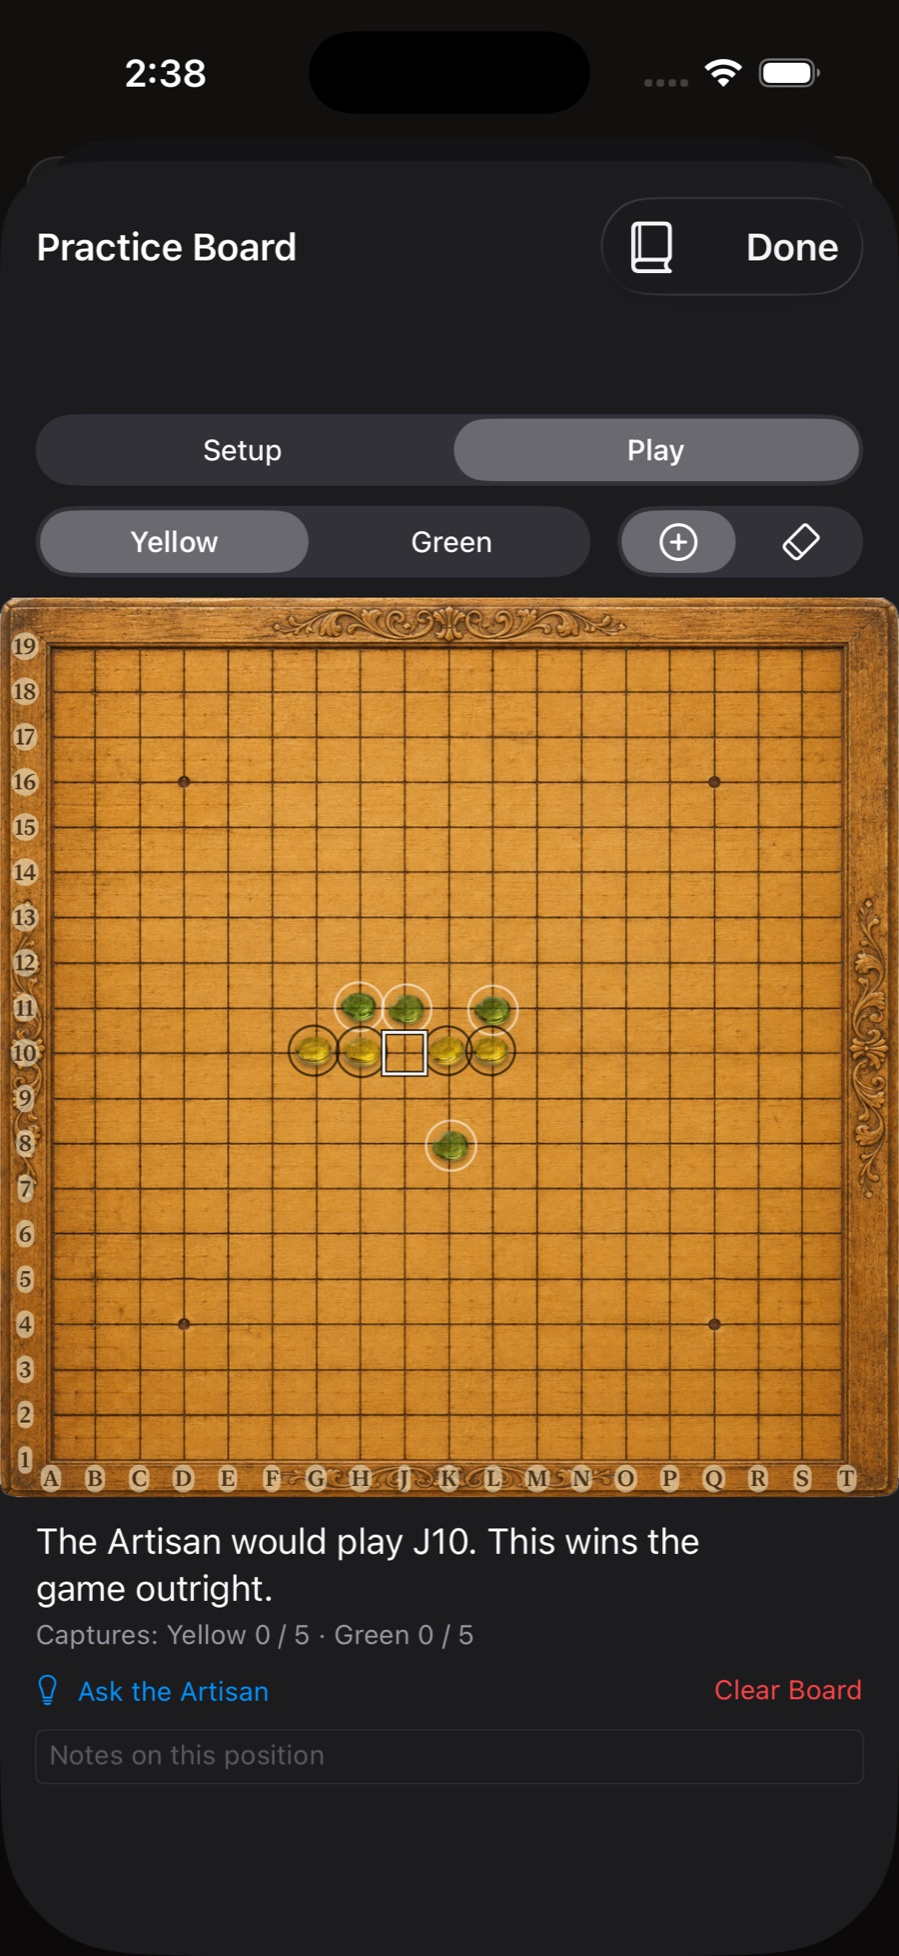
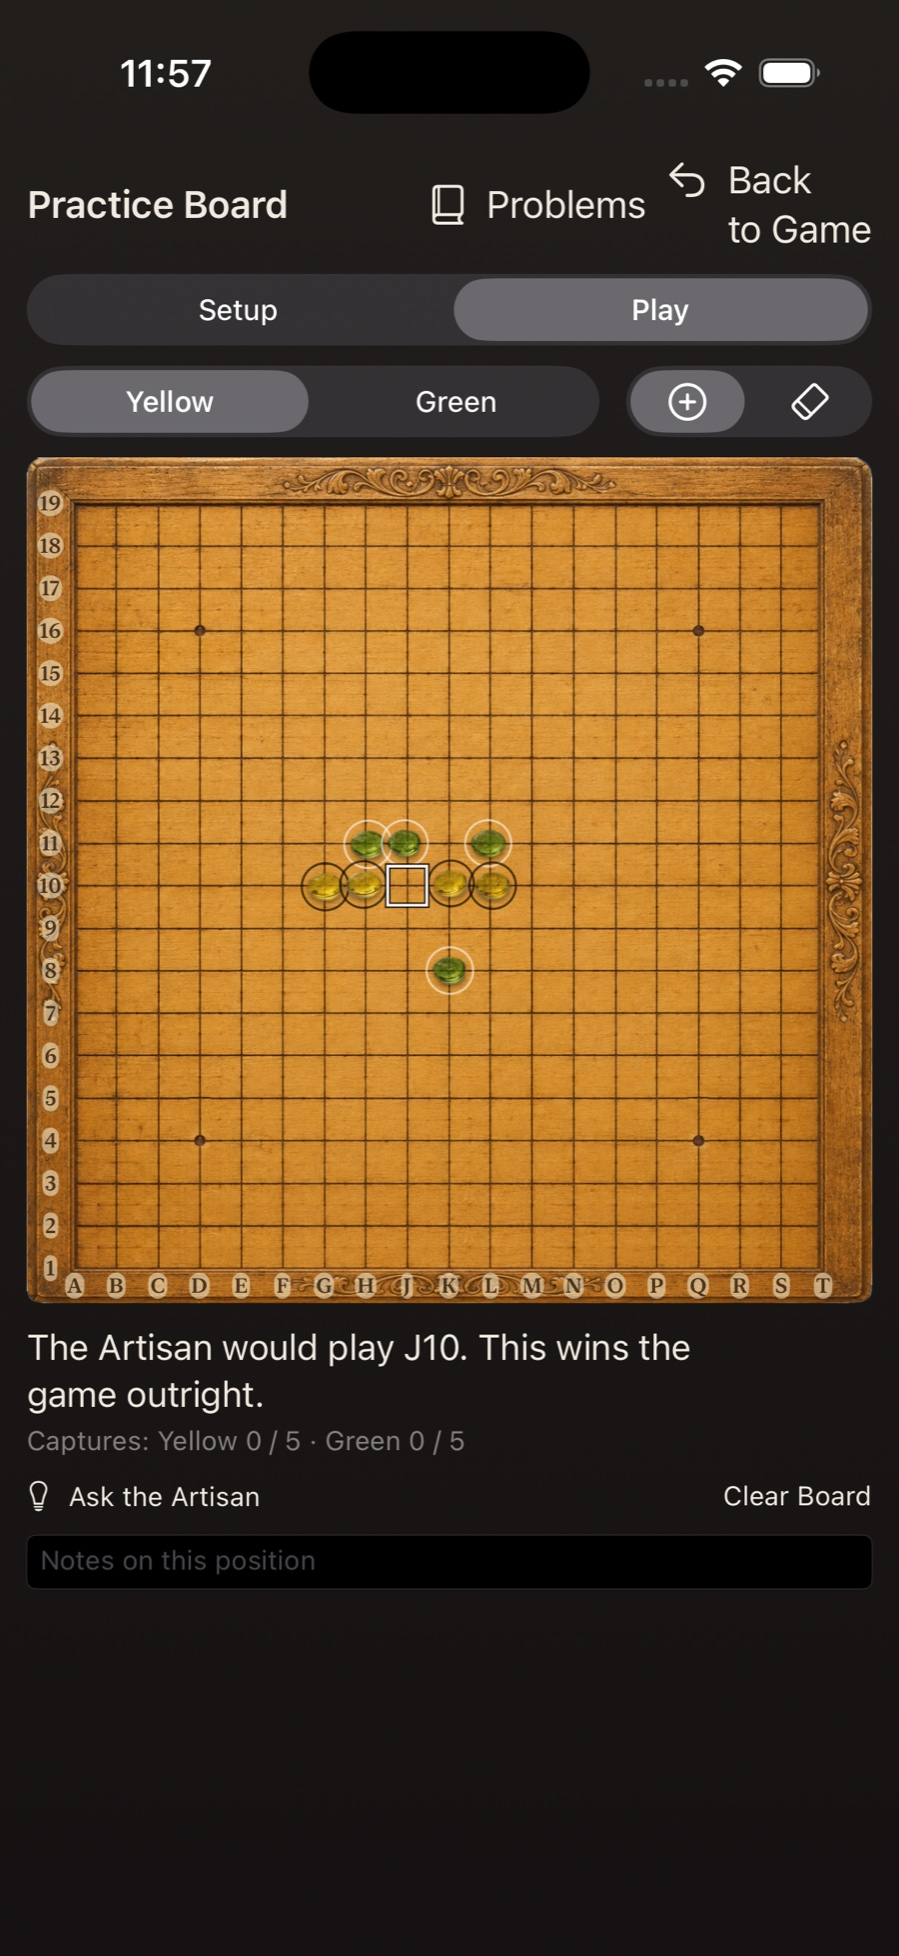
Manual practice images reshoot: the full-size practice mode
The practice board is a mode of the main screen now (app commit
66ad85b), so the manual's practice and problems figures showed a
UI that no longer exists. Both reshot on the new full-size board:
same p01 composition, square on J10, "wins the game outright"
caption; problems menu with the solved checkmark. Practice
section copy now names the takeover (Practice Board makes the
main board the practice board; Back to Game returns) and the
Problems menu by its label. Cache-busters bumped, including
index.html's study-loop use of the practice image.

diff --git a/manual.html b/manual.html
@@ -170,20 +170,20 @@
   <h2 id="practice">The Practice Board</h2>
   <div class="pair">
     <figure>
-      <img src="screenshots/manual-practice.jpg?v=4" alt="The Practice Board in Play mode with a book problem loaded, the book's open-square mark on the winning point, and the caption: The Artisan would play J10. This wins the game outright." loading="lazy">
+      <img src="screenshots/manual-practice.jpg?v=5" alt="The Practice Board in Play mode with a book problem loaded, the book's open-square mark on the winning point, and the caption: The Artisan would play J10. This wins the game outright." loading="lazy">
       <figcaption>A book problem on a real board, with the Artisan's explained answer.</figcaption>
     </figure>
     <figure>
-      <img src="screenshots/manual-problems.jpg?v=2" alt="The problems menu listing the book's Chapter 15 problems, the solved one marked with a checkmark" loading="lazy">
+      <img src="screenshots/manual-problems.jpg?v=3" alt="The problems menu listing the book's Chapter 15 problems, the solved one marked with a checkmark" loading="lazy">
       <figcaption>The book's fifteen problems. Solved ones wear a mark.</figcaption>
     </figure>
   </div>
-  <p>A free board with two bowls beside it, in the Study section. It has two modes, and the difference is the whole idea:</p>
+  <p>A free board with two bowls beside it. Tap <strong>Practice Board</strong> in the Study section and the main board itself becomes the practice board — full size, with the practice controls around it — and <strong>Back to Game</strong> returns you to your game exactly as you left it. It has two modes, and the difference is the whole idea:</p>
   <ul>
     <li><strong>Setup</strong> — stones drop wherever you tap, for whichever color is selected, and nothing resolves. Arrange any position: something from a game, something from the book, something from your head.</li>
     <li><strong>Play</strong> — the real rules take over. Captures fire, wins fire, exactly as in a game, but with a color selector instead of turn order, so you can play both sides of a line to see where it goes.</li>
   </ul>
-  <p>The eraser removes any single stone. The note field keeps whatever you learned, and the whole board — position, note, and all — is exactly where you left it next time. The book menu in the corner opens any of the companion book's fifteen problems on the board; find a problem's published answer in Play mode and it's remembered with a checkmark. And <strong>Ask the Artisan</strong> works here too — on the Practice Board, the explanation always shows, because practice is where the vocabulary is learned.</p>
+  <p>The eraser removes any single stone. The note field keeps whatever you learned, and the whole board — position, note, and all — is exactly where you left it next time. The <strong>Problems</strong> menu opens any of the companion book's fifteen problems on the board; find a problem's published answer in Play mode and it's remembered with a checkmark. And <strong>Ask the Artisan</strong> works here too — on the Practice Board, the explanation always shows, because practice is where the vocabulary is learned.</p>
 
   <h2 id="mirror">The Mirror</h2>
   <figure>

diff --git a/index.html b/index.html
@@ -477,7 +477,7 @@
       <figure><img src="screenshots/manual-review.jpg" width="900" height="1956" loading="lazy"
           alt="The walk-back: a reviewed position with the engine's one-line reading">
         <figcaption>Walk any finished game move by move and find where the position turned.</figcaption></figure>
-      <figure><img src="screenshots/manual-practice.jpg" width="900" height="1956" loading="lazy"
+      <figure><img src="screenshots/manual-practice.jpg?v=5" width="900" height="1956" loading="lazy"
           alt="The Practice Board with a book problem loaded and the answer explained">
         <figcaption>Open the book's problems on a real board, with hints that explain why.</figcaption></figure>
       <figure><img src="screenshots/manual-mirror.jpg" width="900" height="1956" loading="lazy"
